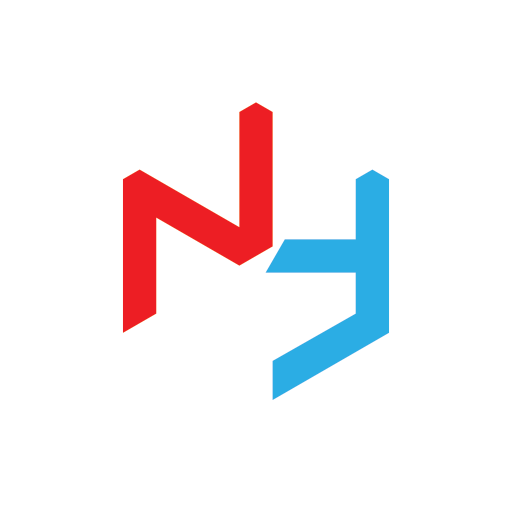
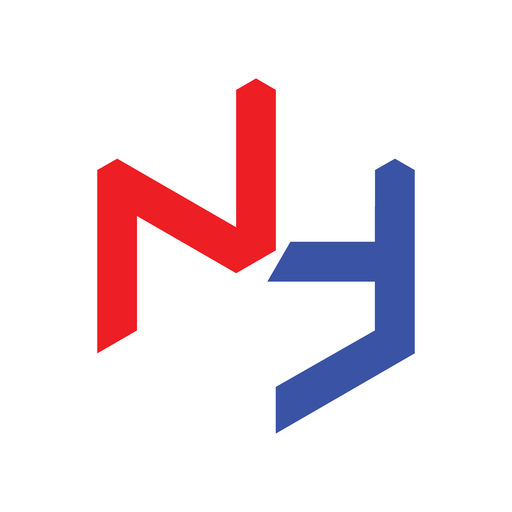
浏览器标签页/PWA 图标换小米风 squircle（Studio 红蓝 N+T）

Changed region(s): [[0.1875, 0.1562, 0.8125, 0.8438], [0.3438, 0.375, 0.4062, 0.4062], [0.2812, 0.3438, 0.3438, 0.375]]

diff --git a/index.html b/index.html
@@ -27,8 +27,8 @@
     <meta name="apple-mobile-web-app-capable" content="yes">
     <meta name="apple-mobile-web-app-status-bar-style" content="black-translucent">
     <meta name="apple-mobile-web-app-title" content="星玖工作室">
-    <link rel="apple-touch-icon" href="assets/img/apple-touch-icon.png">
-    <link rel="apple-touch-icon-precomposed" href="assets/img/apple-touch-icon.png">
+    <link rel="apple-touch-icon" href="assets/img/icon-192.png">
+    <link rel="apple-touch-icon-precomposed" href="assets/img/icon-192.png">
     <title>星玖工作室官网 - Ntarstudio</title>
     <!-- JSON-LD 结构化数据 (Schema.org Organization) -->
     <script type="application/ld+json">
@@ -46,8 +46,9 @@
       ]
     }
     </script>
-    <link rel="icon" type="image/svg+xml" href="assets/img/favicon-color.svg?v=3">
-    <link rel="shortcut icon" href="assets/img/favicon-color.svg?v=3">
+    <link rel="icon" type="image/png" sizes="192x192" href="assets/img/icon-192.png">
+    <link rel="icon" type="image/svg+xml" href="assets/img/icon.svg">
+    <link rel="shortcut icon" href="assets/img/icon.svg">
     <script>
         (function(){
             document.documentElement.classList.add('theme-lock');
